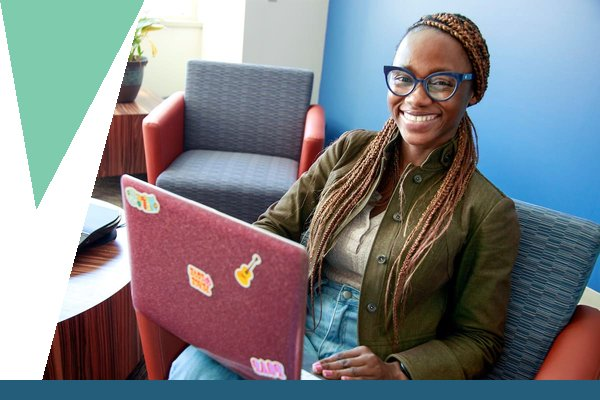
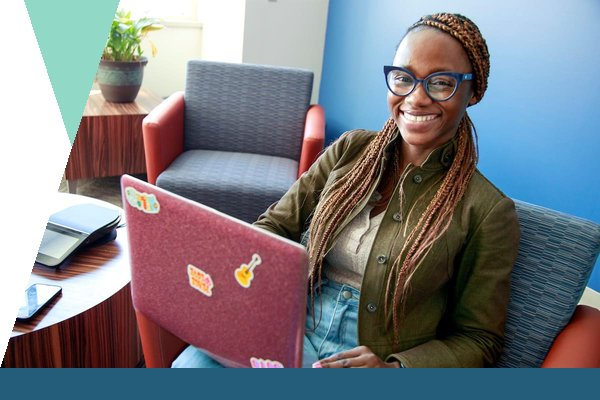
TD0007: Use exact website SVG/CSS values for hero overlay
Extract actual geometry from ualr.edu:
- SVG: polygon(4% 0, 100% 0, 100% 100%, 24% 100%) #91d9c6
- Photo clip-path: polygon(20% 0, 100% 0, 100% 100%, 0% 100%)
Triangle naturally forms from layer overlap, matching website exactly.

Changed region(s): [[0.0, 0.0, 1.0, 0.96]]

diff --git a/td0007_overlay_v2.py b/td0007_overlay_v2.py
@@ -1,0 +1,92 @@
+"""
+TD0007 v2: Correct implementation matching reference exactly
+Structure:
+1. White canvas background
+2. Emerald triangle (solid) in upper-left corner
+3. Photo diagonally cropped - right side of diagonal line
+4. Diagonal line goes from (crop_x, 0) at top to (0, h-bar_h) at bottom
+   → photo's diagonal cut MEETS the bottom teal bar at the left edge
+5. Teal bar at bottom (full width)
+"""
+from PIL import Image, ImageDraw
+import requests
+from io import BytesIO
+import os
+
+ASSETS_DIR = os.path.join(os.path.dirname(__file__), 'ualr_email_automation', 'assets')
+TARGET_WIDTH = 600
+
+MINT = (145, 217, 198)        # #91d9c6 from website SVG
+WHITE_BG = (255, 255, 255)    # white background
+TEAL_BAR = (36, 93, 122)      # #245D7A
+
+hero_images = {
+    'hero_accounting.jpg': 'https://ualr.edu/accounting/wp-content/uploads/sites/76/2024/11/business-student-portrait-2-2023.jpg',
+    'hero_business_analytics.jpg': 'https://ualr.edu/bis/wp-content/uploads/sites/131/2024/11/biz-portrait-2022_03.jpg',
+    'hero_bis.jpg': 'https://ualr.edu/bis/wp-content/uploads/sites/131/2024/11/biz-portrait-2022_03.jpg',
+    'hero_economics.jpg': 'https://ualr.edu/economics/wp-content/uploads/sites/93/2024/11/ASBTDC-setups-2021_12.jpg',
+    'hero_finance.jpg': 'https://ualr.edu/economics/wp-content/uploads/sites/93/2024/11/business-team-winners1.jpg',
+    'hero_intl_business.jpg': 'https://ualr.edu/accounting/wp-content/uploads/sites/76/2024/11/business-student-portrait-2-2023.jpg',
+    'hero_management.jpg': 'https://ualr.edu/management/wp-content/uploads/sites/108/2024/11/business-student-portrait-2023.jpg',
+    'hero_marketing.jpg': 'https://ualr.edu/marketing/wp-content/uploads/sites/109/2024/11/business-student-portrait-2-2023.jpg',
+}
+
+
+def apply_overlay(photo):
+    w, h = photo.size
+    bar_h = int(h * 0.08)
+    crop_bottom_y = h - bar_h
+
+    # 1. White canvas
+    canvas = Image.new('RGB', (w, h), WHITE_BG)
+    draw = ImageDraw.Draw(canvas)
+
+    # 2. Mint SVG background (exact website values)
+    # SVG polygon: points="40 0 1000 0 1000 1000 240 1000" in 1000x1000 viewBox
+    # = (4%, 0) (100%, 0) (100%, 100%) (24%, 100%)
+    mint_poly = [
+        (int(w * 0.04), 0),
+        (w, 0),
+        (w, crop_bottom_y),
+        (int(w * 0.24), crop_bottom_y),
+    ]
+    draw.polygon(mint_poly, fill=MINT)
+
+    # 3. Photo with clip-path mask (exact website CSS)
+    # clip-path: polygon(20% 0px, 100% 0px, 100% 100%, 0px 100%)
+    mask = Image.new('L', (w, h), 0)
+    mask_draw = ImageDraw.Draw(mask)
+    photo_area = [
+        (int(w * 0.20), 0),
+        (w, 0),
+        (w, crop_bottom_y),
+        (0, crop_bottom_y),
+    ]
+    mask_draw.polygon(photo_area, fill=255)
+    canvas.paste(photo, mask=mask)
+
+    # 4. Teal bar at bottom (full width, on top of everything)
+    draw = ImageDraw.Draw(canvas)
+    draw.rectangle([(0, h - bar_h), (w, h)], fill=TEAL_BAR)
+
+    return canvas
+
+
+for name, url in hero_images.items():
+    print(f"  Processing {name}...")
+    resp = requests.get(url, timeout=30)
+    resp.raise_for_status()
+    img = Image.open(BytesIO(resp.content))
+
+    ratio = TARGET_WIDTH / img.width
+    new_h = int(img.height * ratio)
+    img = img.resize((TARGET_WIDTH, new_h), Image.LANCZOS)
+
+    result = apply_overlay(img)
+    out_path = os.path.join(ASSETS_DIR, name)
+    result.save(out_path, 'JPEG', quality=85, optimize=True)
+
+    fsize = os.path.getsize(out_path) / 1024
+    print(f"  Saved: {name} ({fsize:.0f}KB)")
+
+print("\nDone!")
